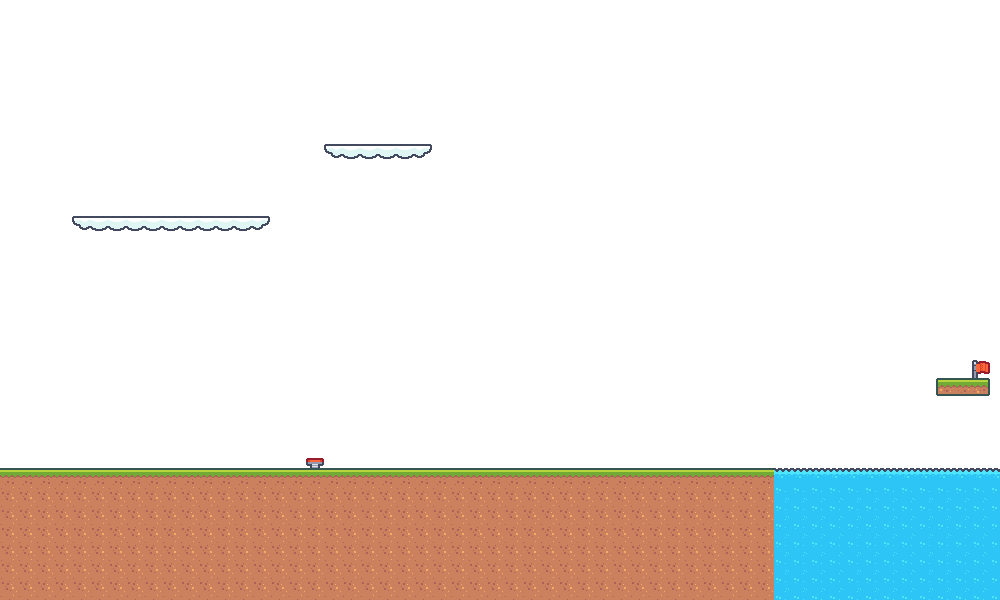
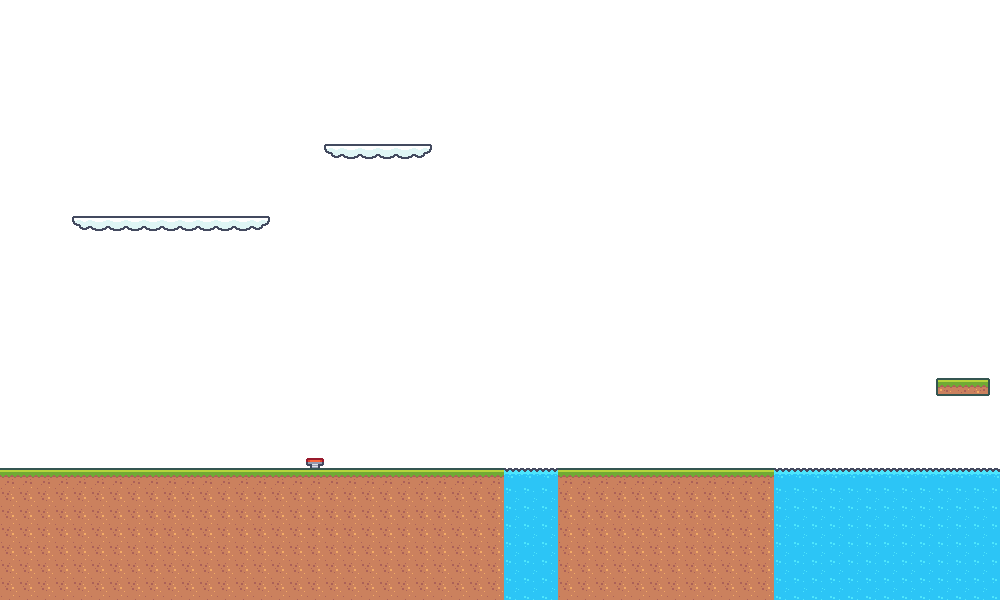
final

Changed region(s): [[0.496, 0.78, 0.558, 1.0], [0.961, 0.6, 0.992, 0.63]]

diff --git a/Season4/final/final/1.py b/Season4/final/final/1.py
@@ -25,6 +25,26 @@ class Key(Sprite):
             self.is_visible = False
             g.is_visible = True
 
+class KeyHole(Sprite):
+    def on_create(self):
+        self.image = "png/Level_5.png"
+        self.x = 550
+        self.y = 30
+        self.add_tag("Keyhole")
+        
+    def on_update(self, dt):
+        if self.get_touching_sprites_with_tag("player"):
+            self.is_visible = False
+            flag.is_visible = True
+
+class Flag(Sprite):
+    def on_create(self):
+        self.image = "png/Level_4.png"
+        self.x = 980
+        self.y = 230
+        self.add_tag("flag")
+        self.is_visible = False
+
 class Ground(Sprite):
     def on_create(self):
         self.image = "png/Level_3.png"
@@ -34,7 +54,9 @@ class Ground(Sprite):
         self.add_tag("g")
 
 w.create_sprite(Key)
+w.create_sprite(KeyHole)
 g = w.create_sprite(Ground)
+flag = w.create_sprite(Flag)
 
 class Player(Sprite):
     GRAVITY = 1.5
